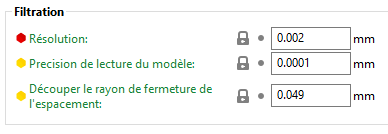
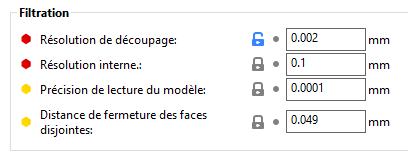
update image

diff --git a/src/print_settings/print_settings.md b/src/print_settings/print_settings.md
@@ -462,6 +462,7 @@ Le générateur de périmètre classique produit des périmètres avec une extru
 
 ![Image : Options Périmètres Arachne](./images/032.png)
 #### *Seuil de périmètre*
+
 ##### *[Seuil de division périmètre intermédiaire](../variable/wall_split_middle_threshold.md)*
 
 La plus petite largeur d'extrusion, en tant que facteur de la largeur d'extrusion normale, au-dessus de laquelle un périmètre moyen (s'il n'y en avait pas déjà un) sera ajouté. 
@@ -547,6 +548,8 @@ Changer la hauteur de la première couche nécessitera très probablement une **
 Résolution minimale pour les détails, utilisée pour simplifier le fichier d'entrée afin d'accélérer le découpage et de réduire l'utilisation de la mémoire. Les modèles haute-résolution possèdent souvent plus de détails que ce que les imprimantes peuvent produire. 
 
 Mettez **à zéro** pour désactiver toute simplification et utiliser la résolution complète de l'entrée.
+
+#### *[Résolution interne](../variable/resolution_internal.md)*
 
 #### *[Précision de la lecture du modèle](../variable/model_precision.md)*
 

diff --git a/src/variable/resolution_internal.md b/src/variable/resolution_internal.md
@@ -1,0 +1,17 @@
+# resolution_internal.
+
+* Technologie : FDM
+* Groupe : [Réglages de l'Impression](../print_settings/print_settings.md)
+* Sous groupe : [Couche](../print_settings/print_settings.md#couche) - [Filtration](../print_settings/print_settings.md#filtration)
+* Mode : Expert
+
+## Résolution interne
+
+### Description
+
+Résolution minimum pour les structures interne (remplissage des vides, certains motifs).
+
+
+Ne pas mettre une valeur trop faible (0.05mm est déjà faible pour certaines imprimantes), car cela créera trop de tout petits segments diffice à afficher et à imprimer.
+ 
+[Retour Liste variables](variable_list.md)

diff --git a/src/variable/gap_fill_min_area.md b/src/variable/gap_fill_min_area.md
@@ -9,7 +9,7 @@
 
 ### Description
 
-Ce paramètre représente le minimum de mm² pour la création d’une extrusion de remplissage de lacunes entre les parois.
+Ce paramètre représente le minimum de mm² pour la création d’une extrusion de remplissage de vides entre les parois.
 
 Peut être un % de (largeur du périmètre)².
 
